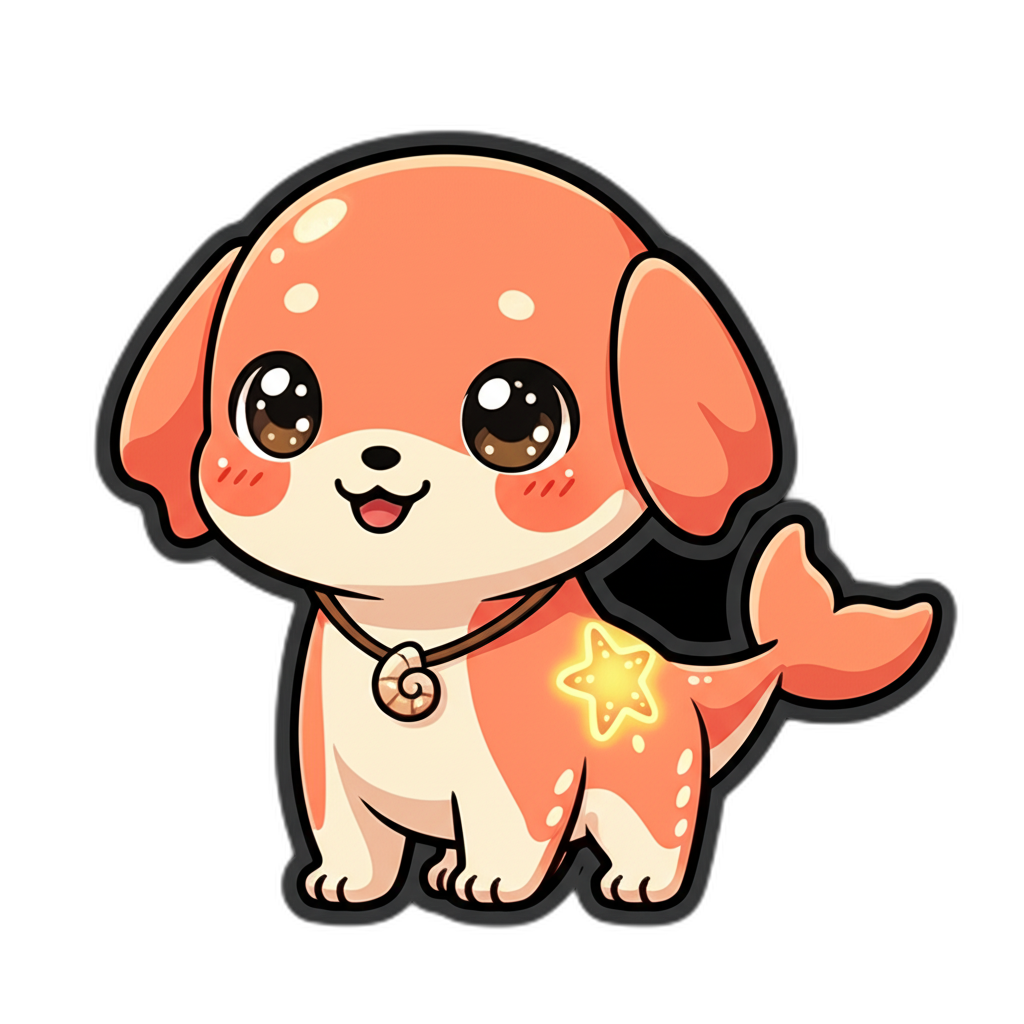
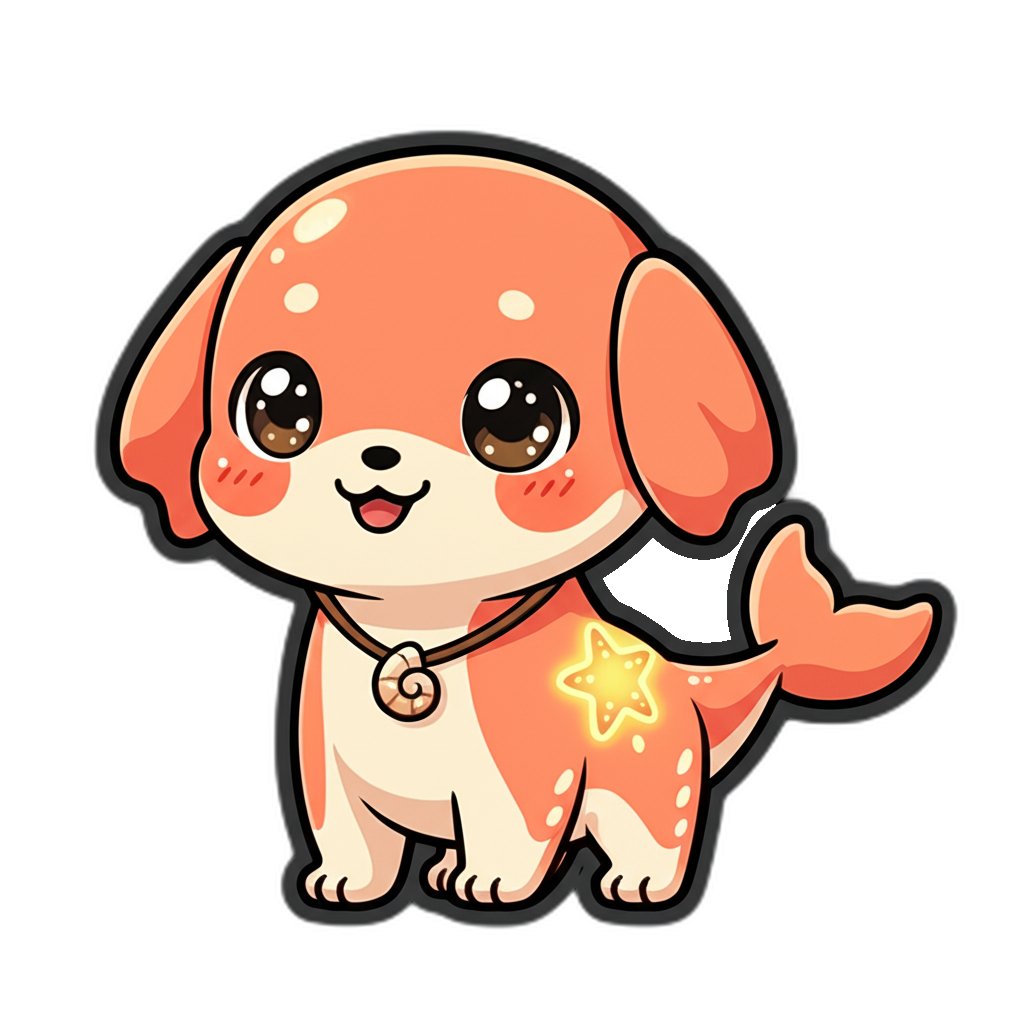
fix: Stella image black patch, foreground notifications, sound effects
- Remove black background artifact between Stella's ear and tail in
  stage_01.png (all 3 asset locations updated)
- Add AppDelegate with UNUserNotificationCenterDelegate so local
  notifications display while the app is in the foreground
- Simplify SoundManager.play() by removing Task.detached indirection,
  re-activate audio session before each play, add Sendable to SoundEffect

Made-with: Cursor

Changed region(s): [[0.5938, 0.5312, 0.7188, 0.625], [0.7188, 0.5, 0.75, 0.5312]]

diff --git a/IppoMVP/IppoMVP/Utils/SoundManager.swift b/IppoMVP/IppoMVP/Utils/SoundManager.swift
@@ -33,34 +33,30 @@ final class SoundManager: ObservableObject {
     func play(_ effect: SoundEffect) {
         guard isSoundEnabled else { return }
 
-        Task.detached {
-            let data = effect.generateAudio()
-            guard let data else { return }
+        configureAudioSession()
 
-            do {
-                let player = try AVAudioPlayer(data: data)
-                player.volume = effect.volume
-                player.prepareToPlay()
+        guard let data = effect.generateAudio() else { return }
 
-                await MainActor.run { [weak self] in
-                    guard let self else { return }
-                    self.activePlayers.removeAll { !$0.isPlaying }
-                    if self.activePlayers.count >= self.maxConcurrentPlayers {
-                        self.activePlayers.removeFirst()
-                    }
-                    player.play()
-                    self.activePlayers.append(player)
-                }
-            } catch {
-                print("SoundManager: Failed to play \(effect.displayName): \(error)")
+        do {
+            let player = try AVAudioPlayer(data: data)
+            player.volume = effect.volume
+            player.prepareToPlay()
+
+            activePlayers.removeAll { !$0.isPlaying }
+            if activePlayers.count >= maxConcurrentPlayers {
+                activePlayers.removeFirst()
             }
+            player.play()
+            activePlayers.append(player)
+        } catch {
+            print("SoundManager: Failed to play \(effect.displayName): \(error)")
         }
     }
 }
 
 // MARK: - Sound Effect Definitions
 
-enum SoundEffect: String, CaseIterable, Identifiable {
+enum SoundEffect: String, CaseIterable, Identifiable, Sendable {
     case petCatch
     case evolution
     case feedPet

diff --git a/IppoMVP/IppoMVP/IppoMVPApp.swift b/IppoMVP/IppoMVP/IppoMVPApp.swift
@@ -2,9 +2,25 @@ import SwiftUI
 import FirebaseCore
 import HealthKit
 import GoogleSignIn
+import UserNotifications
+
+class AppDelegate: NSObject, UIApplicationDelegate, UNUserNotificationCenterDelegate {
+    func application(_ application: UIApplication,
+                     didFinishLaunchingWithOptions launchOptions: [UIApplication.LaunchOptionsKey: Any]? = nil) -> Bool {
+        UNUserNotificationCenter.current().delegate = self
+        return true
+    }
+
+    func userNotificationCenter(_ center: UNUserNotificationCenter,
+                                willPresent notification: UNNotification,
+                                withCompletionHandler completionHandler: @escaping (UNPresentationOptions) -> Void) {
+        completionHandler([.banner, .badge, .sound])
+    }
+}
 
 @main
 struct IppoMVPApp: App {
+    @UIApplicationDelegateAdaptor(AppDelegate.self) var appDelegate
     @StateObject private var authService = AuthService.shared
     @StateObject private var userData = UserData.shared
     @StateObject private var watchConnectivity = WatchConnectivityService.shared
